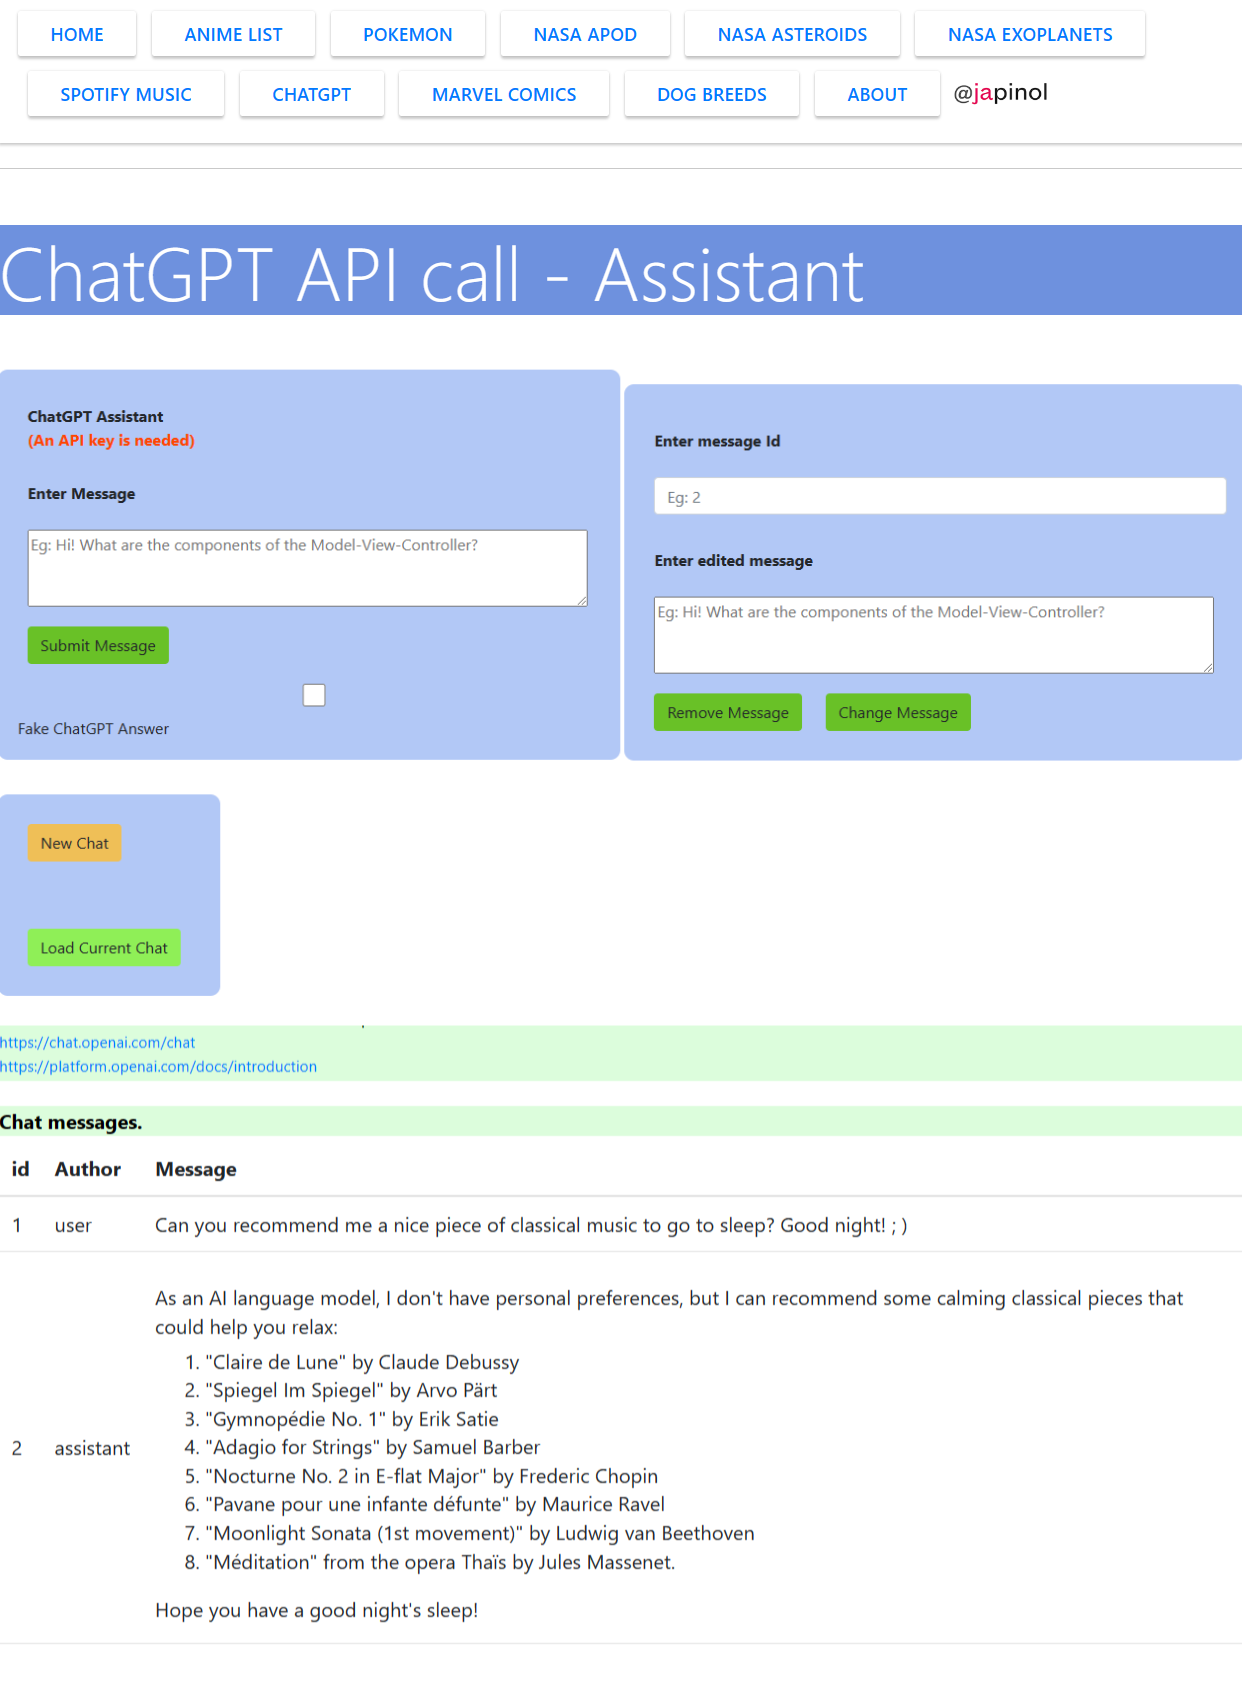
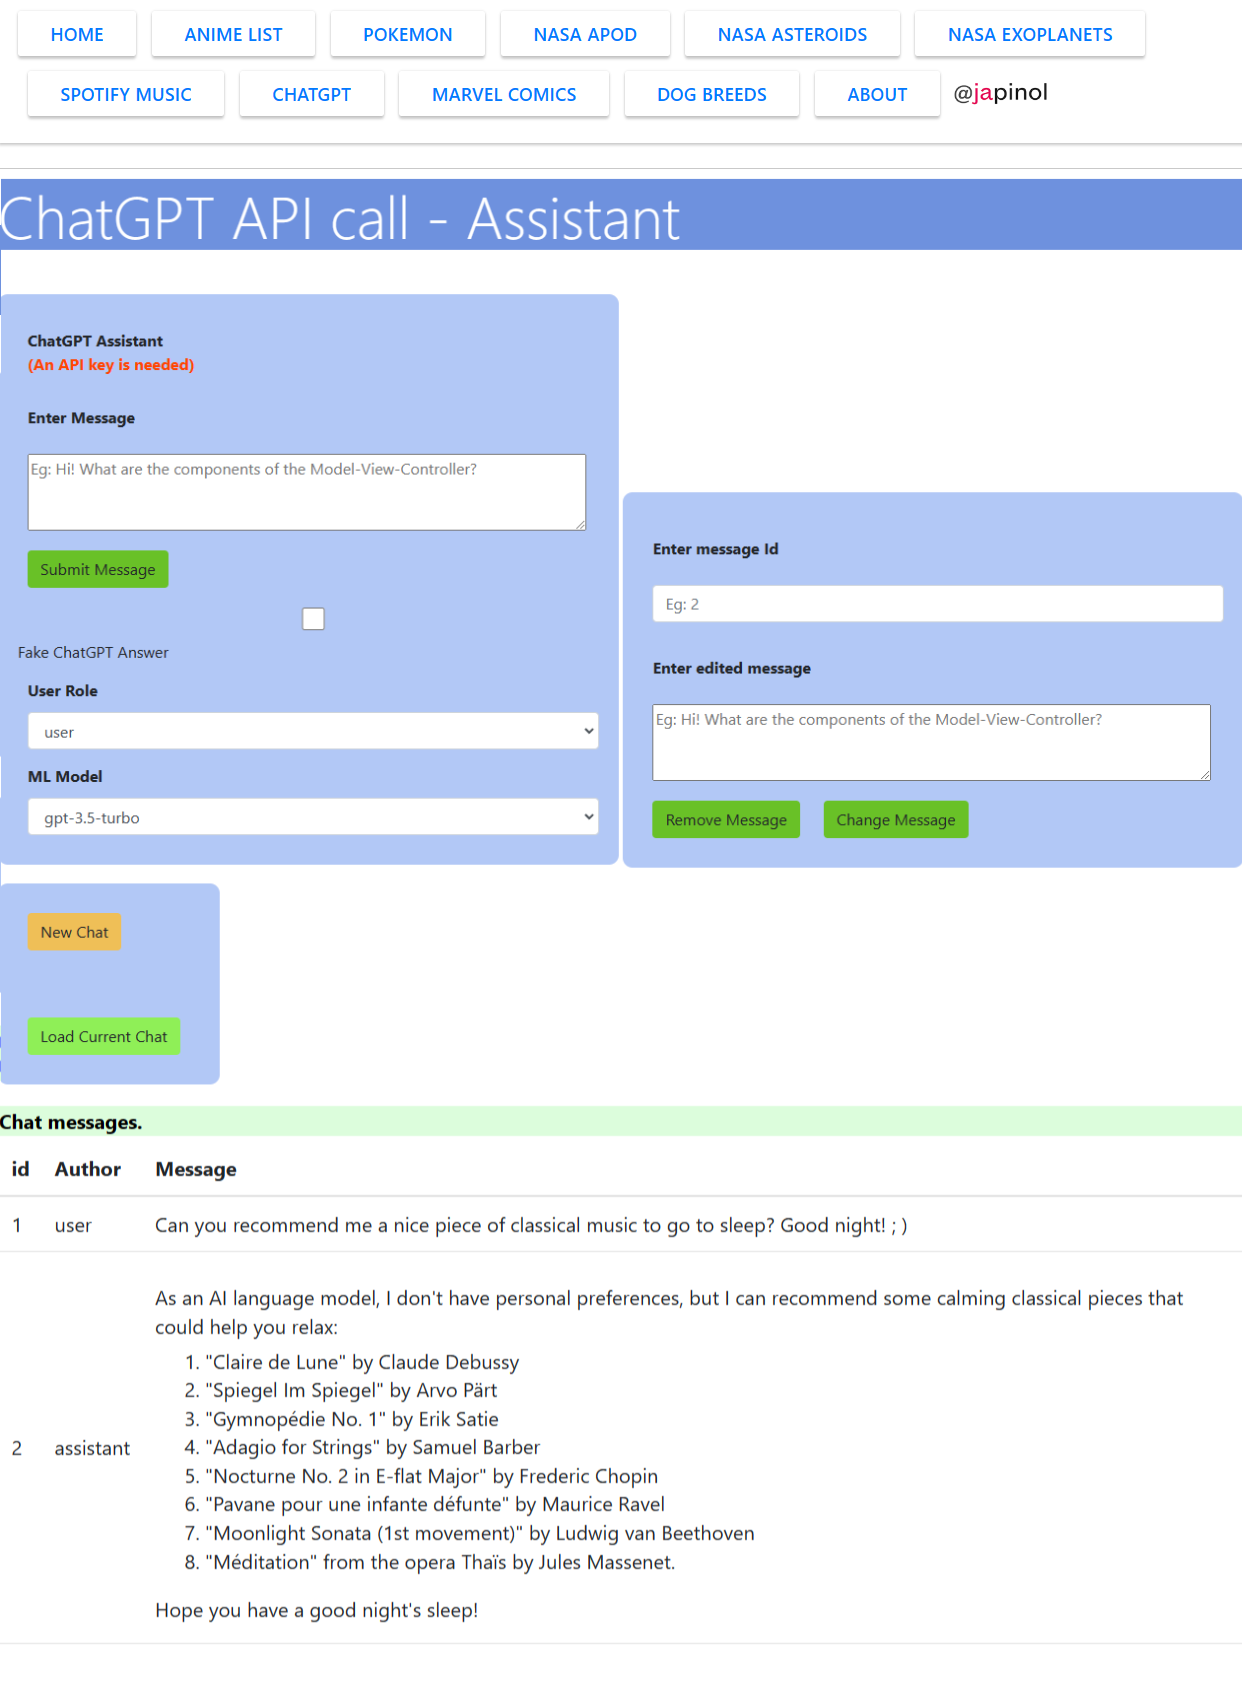
[IMP] chatgpt: Improvements.

Changed region(s): [[0.0, 0.0921, 1.0, 0.645]]

diff --git a/app/templates/chatgpt.html b/app/templates/chatgpt.html
@@ -14,10 +14,27 @@
                       placeholder="Eg: Hi! What are the components of the Model-View-Controller?"
                       required></textarea>
             <button class="submit-message">Submit Message</button>
+
             <input type=checkbox name="flags"
                    style="font-size:6px;"
                    value="Fake ChatGPT Answer">Fake ChatGPT Answer<br/>
+
+            <p><strong>User Role</strong></p>
+            <select name="chatgpt_user_role" id="chatgpt_user_role" required>
+                <option value="">&lt;Select a user role&gt;</option>
+                <option value="user" selected>user</option>
+                <option value="system">system</option>
+                <option value="user_role_test_error">user role to test error</option>
+            </select>
+
+            <p><strong>ML Model</strong></p>
+            <select name="chatgpt_ml_model" id="chatgpt_ml_model" required>
+                <option value="">&lt;Select a ML model&gt;</option>
+                <option value="gpt-3.5-turbo" selected>gpt-3.5-turbo</option>
+                <option value="ml_mode_test_error">ML model to test error</option>
+            </select>
         </form>
+
         <form class="chatgpt-form-class" id="chatgpt_form_remove_msg"
               action="/chatgpt" method="POST" style="background:#b2c8f6;width: 630px;min-width: 200px;max-width: 800px">
             <label for="chatgpt_input_remove_msg"><p>

diff --git a/app/chatgpt/usecases/conversation_interactor.py b/app/chatgpt/usecases/conversation_interactor.py
@@ -7,6 +7,16 @@ from ...tools.utils import utils
 import logging
 
 FAKE_ANSWER_MSG = "Fake Answer."
+USER_ROLES = {'user', 'system'}
+USER_ROLE = 'user'
+ASSISTANT_ROLE = 'assistant'
+ML_MODELS = {'gpt-3.5-turbo'}
+USER_ERROR = 'ERROR'
+
+USER_ROLE_ERROR_MSG = "User Error. Provided user role is " \
+                      "not valid: {user_role} . Text:<br>{text}"
+ML_MODEL_ERROR_MSG = "User Error. Provided ML model is " \
+                     "not valid: {model} . Text:<br>{text}"
 
 logging.basicConfig(format='%(asctime)s %(levelname)s %(name)s: %(message)s')
 logger = logging.getLogger(__name__)
@@ -65,27 +75,57 @@ class ConversationInteractor:
         self.conversation.messages[id_].text = text
 
     def get_conversation_formatted(self):
-        return [ChatGPTClient.format_message(msg.author, msg.text) for msg in self.conversation.messages.values()]
+        return [ChatGPTClient.format_message(msg.author, msg.text)
+                for msg in self.conversation.messages.values()
+                if msg.author != USER_ERROR]
 
-    def get_chatgpt_answer_fake(self, text):
-        self.add_message('user', text)
-        self.add_message('assistant', FAKE_ANSWER_MSG)
+    def get_chatgpt_answer_fake(self, text, user_role, model):
+        if not self._validate_user_role(user_role, text):
+            return USER_ROLE_ERROR_MSG.format(user_role=user_role, text=text)
+        if not self._validate_ml_model(model, text):
+            return ML_MODEL_ERROR_MSG.format(model=model, text=text)
+
+        self.add_message(user_role, text)
+        self.add_message(ASSISTANT_ROLE, FAKE_ANSWER_MSG)
         return FAKE_ANSWER_MSG
 
-    def get_chatgpt_answer(self, text):
+    def get_chatgpt_answer(self, text, user_role, model):
+        if not self._validate_user_role(user_role, text):
+            return USER_ROLE_ERROR_MSG.format(user_role=user_role, text=text)
+        if not self._validate_ml_model(model, text):
+            return ML_MODEL_ERROR_MSG.format(model=model, text=text)
+
         logger.info("Get ChatGPT answer")
         try:
-            self.add_message('user', text)
-            answer = self.chatgpt_client.get_answer(self.get_conversation_formatted())
-            self.add_message('assistant', answer)
+            self.add_message(user_role, text)
+            answer = self.chatgpt_client.get_answer(self.get_conversation_formatted(), model)
+            self.add_message(ASSISTANT_ROLE, answer)
             return answer
         except Exception as e:
             logger.error(f"Error getting ChatGPT answer: {e}")
             answer = "Error getting ChatGPT answer! <br>" \
                      "Please, check if your API Key file contains a valid private Key. <br>" \
                      "Although, it could be that ChatGPT is not available at this moment."
-            self.add_message('assistant', answer)
+            self.add_message(ASSISTANT_ROLE, answer)
             return answer
+
+    def _validate_user_role(self, user_role, text):
+        if user_role in USER_ROLES:
+            return True
+
+        answer = USER_ROLE_ERROR_MSG.format(user_role=user_role, text=text)
+        logger.error(answer)
+        self.add_message(USER_ERROR, answer)
+        return False
+
+    def _validate_ml_model(self, model, text):
+        if model in ML_MODELS:
+            return True
+
+        answer = ML_MODEL_ERROR_MSG.format(model=model, text=text)
+        logger.error(answer)
+        self.add_message(USER_ERROR, answer)
+        return False
 
     def __str__(self):
         return f"conversation: {self.conversation}"

diff --git a/app/chatgpt/views/chatgpt_view.py b/app/chatgpt/views/chatgpt_view.py
@@ -36,12 +36,14 @@ def process_form_conversation(conversation_int):
     input_text = request.form.get('chatgpt_msg')
     input_text = input_text.strip() if input_text else ''
     is_fake_msg = 'Fake ChatGPT Answer' in request.form.getlist('flags')
+    user_role = request.form.get('chatgpt_user_role')
+    model = request.form.get('chatgpt_ml_model')
 
     if is_fake_msg:
         logger.info("Generate fake answer")
-        conversation_int.get_chatgpt_answer_fake(input_text)
+        conversation_int.get_chatgpt_answer_fake(input_text, user_role, model)
     elif input_text:
-        conversation_int.get_chatgpt_answer(input_text)
+        conversation_int.get_chatgpt_answer(input_text, user_role, model)
 
     return {
         'messages': conversation_int.get_messages().values(),

diff --git a/app/chatgpt/chatgpt/openai/chatgpt_client.py b/app/chatgpt/chatgpt/openai/chatgpt_client.py
@@ -76,10 +76,10 @@ class ChatGPTClient:
     def format_message(role_name, message):
         return {'role': role_name, 'content': message}
 
-    def get_answer(self, messages):
+    def get_answer(self, messages, model):
         self.response.clear()
         data = {
-            'model': 'gpt-3.5-turbo',
+            'model': model,
             'messages': messages
             }
 
